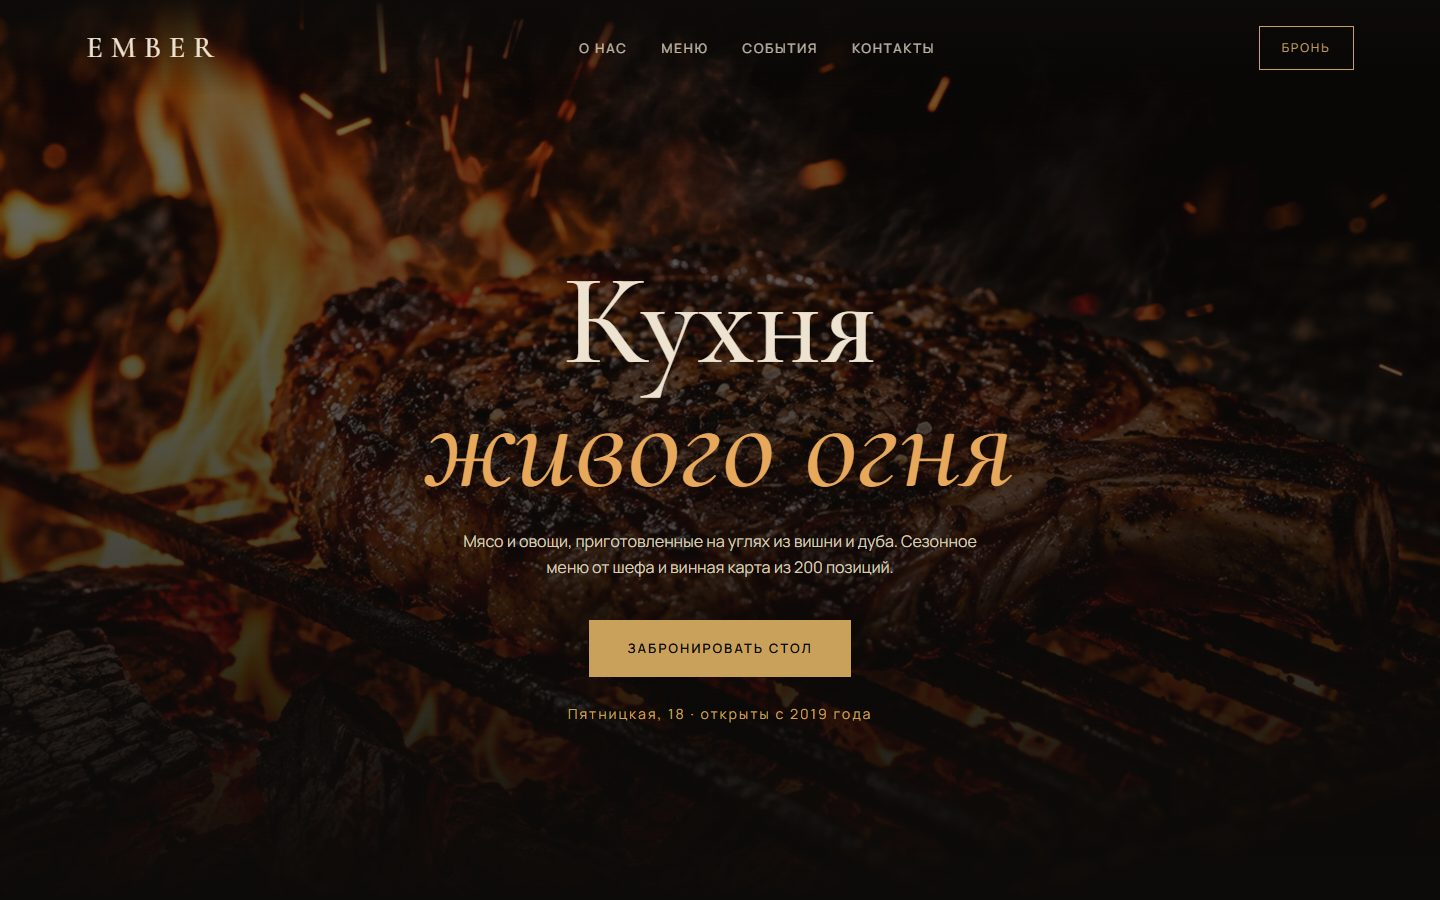
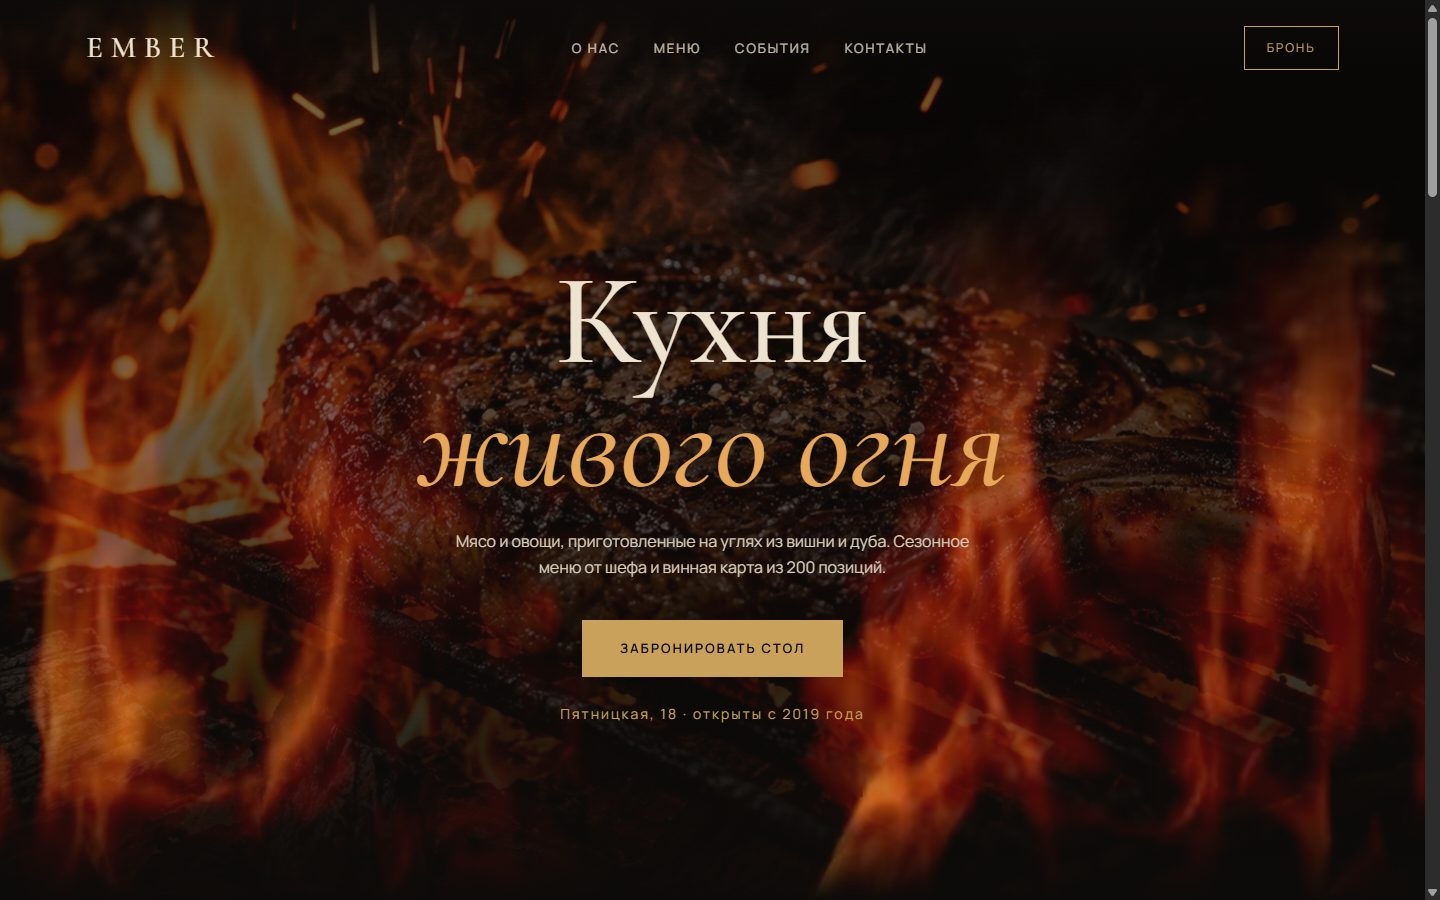
Update case study: signature interactions, audit results, fresh screenshots

diff --git a/case-study.html b/case-study.html
@@ -54,11 +54,11 @@ footer{padding:40px 0 60px;border-top:1px solid var(--line);color:var(--muted);f
 
 <section><h2>Для кого</h2><ul class="cards"><li><h3>Пара на вечер</h3><p>Решает здесь и сейчас с телефона. Нужны: атмосфера за 3 секунды, цены, свободное время сегодня.</p></li><li><h3>Организатор события</h3><p>Ищет площадку для 8–40 человек. Нужны: форматы событий, закрытый зал, понятный следующий шаг.</p></li><li><h3>Гурман</h3><p>Сравнивает рестораны. Нужны: кухня, шеф, происхождение продуктов, отзывы.</p></li></ul></section>
 
-<section><h2>Ключевые решения</h2><ul class="dec"><li><h3>Тёмная тема из сценария, а не из категории</h3><p>Сайт открывают вечером и в полумраке. Тёмный фон с тёплым золотом повторяет свет углей и не слепит. Контраст второстепенного текста поднят до читаемого: тёмная тема не оправдание серому по чёрному.</p></li><li><h3>Типографика как интерьер</h3><p>Cormorant Garamond с курсивом для заголовков даёт ресторанную «рукописность», а Manrope в тексте даёт чистую читаемость цен и описаний. Цены вынесены вправо и выровнены, чтобы меню сканировалось, как в карте.</p></li><li><h3>Фото вместо декора</h3><p>От декоративных градиентов отказался в пользу сгенерированных фото с единой светотенью: огонь, шеф, зал. Каждое фото отвечает на вопрос гостя, а не заполняет место.</p></li><li><h3>Меню без PDF</h3><p>Пять позиций сезонного меню прямо на странице. Этого достаточно, чтобы понять кухню и чек, без загрузки файла на телефоне.</p></li></ul></section>
+<section><h2>Ключевые решения</h2><ul class="dec"><li><h3>Тёмная тема из сценария, а не из категории</h3><p>Сайт открывают вечером и в полумраке. Тёмный фон с тёплым золотом повторяет свет углей и не слепит. Контраст второстепенного текста поднят до читаемого: тёмная тема не оправдание серому по чёрному.</p></li><li><h3>Типографика как интерьер</h3><p>Cormorant Garamond с курсивом для заголовков даёт ресторанную «рукописность», а Manrope в тексте даёт чистую читаемость цен и описаний. Цены вынесены вправо и выровнены, чтобы меню сканировалось, как в карте.</p></li><li><h3>Фото вместо декора</h3><p>От декоративных градиентов отказался в пользу сгенерированных фото с единой светотенью: огонь, шеф, зал. Каждое фото отвечает на вопрос гостя, а не заполняет место.</p></li><li><h3>Меню без PDF</h3><p>Пять позиций сезонного меню прямо на странице. Этого достаточно, чтобы понять кухню и чек, без загрузки файла на телефоне.</p></li><li><h3>Живой огонь вместо эффекта</h3><p>Первый экран — съёмка настоящего пламени поверх фото стейка. Шейдерный огонь пробовал и отказался: он выглядел нарисованным. Ролик замедлен вдвое, чтобы пламя дышало, а не мелькало, и гаснет при прокрутке.</p></li></ul></section>
 
 <figure class="duo"><div><img src="case/detail.jpg" alt="Бронирование: подсказка про закрытый зал для большой компании и подтверждение с деталями" loading="lazy"><figcaption>Бронирование: подсказка про закрытый зал для большой компании и подтверждение с деталями</figcaption></div><div><img src="case/mobile.jpg" alt="Мобильная версия" loading="lazy"><figcaption>Мобильная версия</figcaption></div></figure>
 
-<section class="cols"><h2>Что работает</h2><ul class="feat"><li>Бронирование с валидной логикой: дата не раньше сегодня и не дальше 60 дней, время только из будущих слотов по московскому времени, если на сегодня мест нет — подсказка выбрать другую дату.</li><li>Счётчик гостей 1–12 с доступными кнопками; от 9 человек форма сама предлагает закрытый зал. Это мягкий апсейл банкета.</li><li>Живой статус «Сейчас открыто / закрыто» с временем открытия, обновляется каждую минуту.</li><li>Подтверждение с деталями брони человеческим языком: «Максим, стол на 10 гостей: воскресенье, 13 сентября в 15:30».</li><li>Ошибки называют поле и возвращают фокус в него; состояния «Отправляем…» и «Готово» не дают отправить форму дважды.</li></ul></section>
+<section class="cols"><h2>Что работает</h2><ul class="feat"><li>Бронирование с валидной логикой: дата не раньше сегодня и не дальше 60 дней, время только из будущих слотов по московскому времени, если на сегодня мест нет — подсказка выбрать другую дату.</li><li>Счётчик гостей 1–12 с доступными кнопками; от 9 человек форма сама предлагает закрытый зал. Это мягкий апсейл банкета.</li><li>Живой статус «Сейчас открыто / закрыто» с временем открытия, обновляется каждую минуту.</li><li>Подтверждение с деталями брони человеческим языком: «Максим, стол на 10 гостей: воскресенье, 13 сентября в 15:30».</li><li>Ошибки называют поле и возвращают фокус в него; состояния «Отправляем…» и «Готово» не дают отправить форму дважды.</li><li>Огонь первого экрана: зацикленное видео 1,7 МБ, грузится после первого экрана, ставится на паузу вне экрана, отключается на телефоне, при экономии трафика и при «уменьшить движение».</li></ul></section>
 
 <section class="cols"><h2>Качество</h2><div>
 <p>Сайт свёрстан на чистых HTML, CSS и JavaScript: без фреймворков и сборки. Страница открывается мгновенно и легко переносится на любой хостинг или CMS.</p>
@@ -67,11 +67,13 @@ footer{padding:40px 0 60px;border-top:1px solid var(--line);color:var(--muted);f
 <li>Доступность: видимый фокус, подписи у всех полей, роли и живые области для экранных дикторов, учёт настройки «уменьшить движение».</li>
 <li>Контент виден без JavaScript: анимации появления включаются только когда скрипт загрузился.</li>
 <li>SEO и превью ссылок: описание страницы, Open Graph-картинка, иконка вкладки.</li>
+<li>Lighthouse на мобильном: доступность, лучшие практики и SEO — 100 из 100. Кнопки на телефоне не меньше 44 px, без горизонтальной прокрутки на 375 px.</li>
+<li>Палитра вынесена в CSS-переменные — цвета бренда меняются в одном месте.</li>
 </ul>
-<div class="stat"><b>16 КБ HTML, 5 КБ JavaScript, 6 фото ≈ 840 КБ</b>Самое тяжёлое — фото первого экрана (≈330 КБ). Следующий шаг — WebP/AVIF и адаптивные размеры через srcset: ожидаемо минус половина веса.</div>
+<div class="stat"><b>18 КБ HTML, ≈7 КБ JavaScript, 6 фото ≈ 660 КБ, видео огня 1,7 МБ</b>Фото первого экрана предзагружается и сжато до 224 КБ; видео не мешает первой отрисовке и не грузится на телефоне. Следующий шаг — WebP/AVIF и srcset.</div>
 </div></section>
 
-<section class="cols"><h2>Что дальше</h2><ul class="feat"><li>Подключить реальный сервис бронирования (например, через API) вместо демо-отправки.</li><li>Перевести изображения в WebP/AVIF и добавить srcset.</li><li>A/B-тест: бронирование в первом экране против текущей схемы «атмосфера → бронь».</li></ul></section>
+<section class="cols"><h2>Что дальше</h2><ul class="feat"><li>Подключить реальный сервис бронирования (например, через API) вместо демо-отправки.</li><li>Перевести изображения в WebP/AVIF и добавить srcset; для огня — AV1-версию ролика.</li><li>A/B-тест: бронирование в первом экране против текущей схемы «атмосфера → бронь».</li></ul></section>
 </div>
 <div class="wrap"><footer><span>Дизайн и разработка — PCash, 2026</span><a href="./">Открыть сайт →</a></footer></div>
 </body></html>
